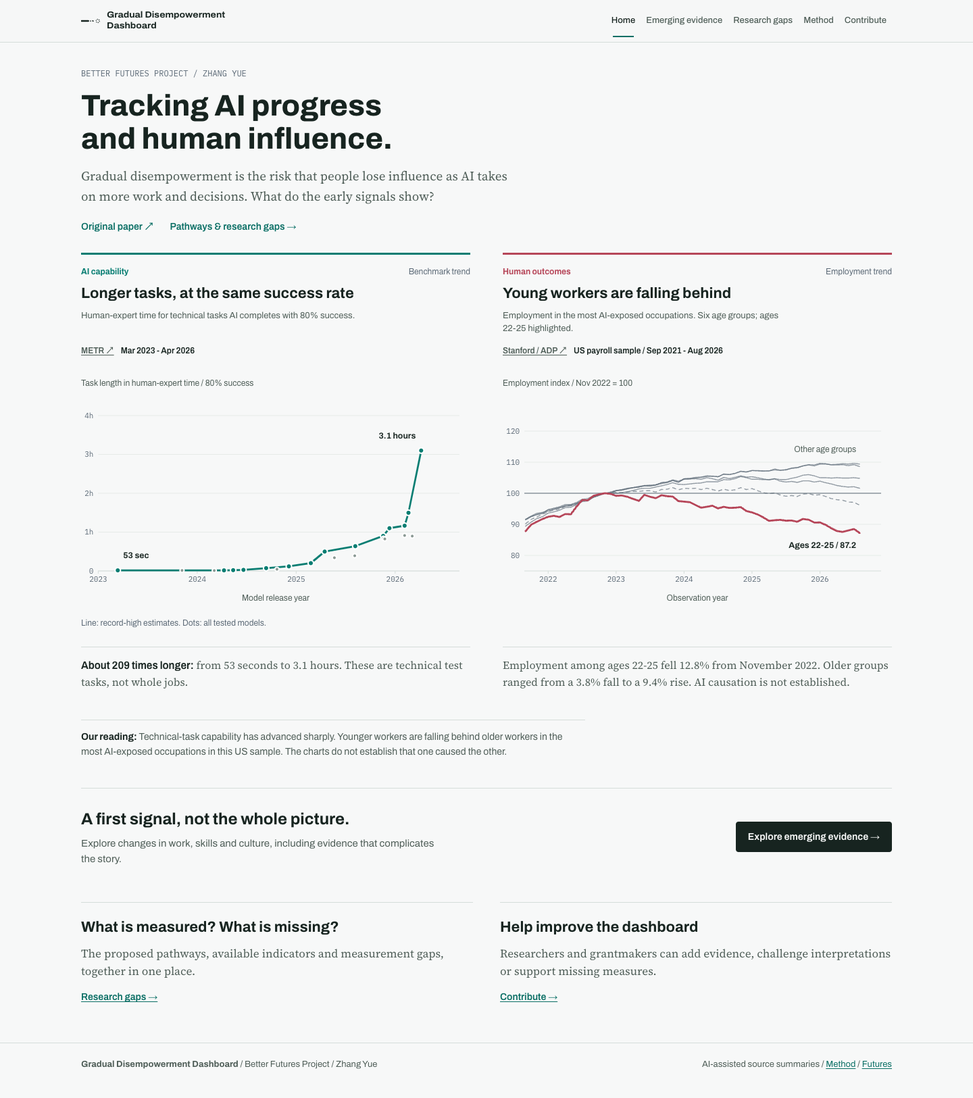
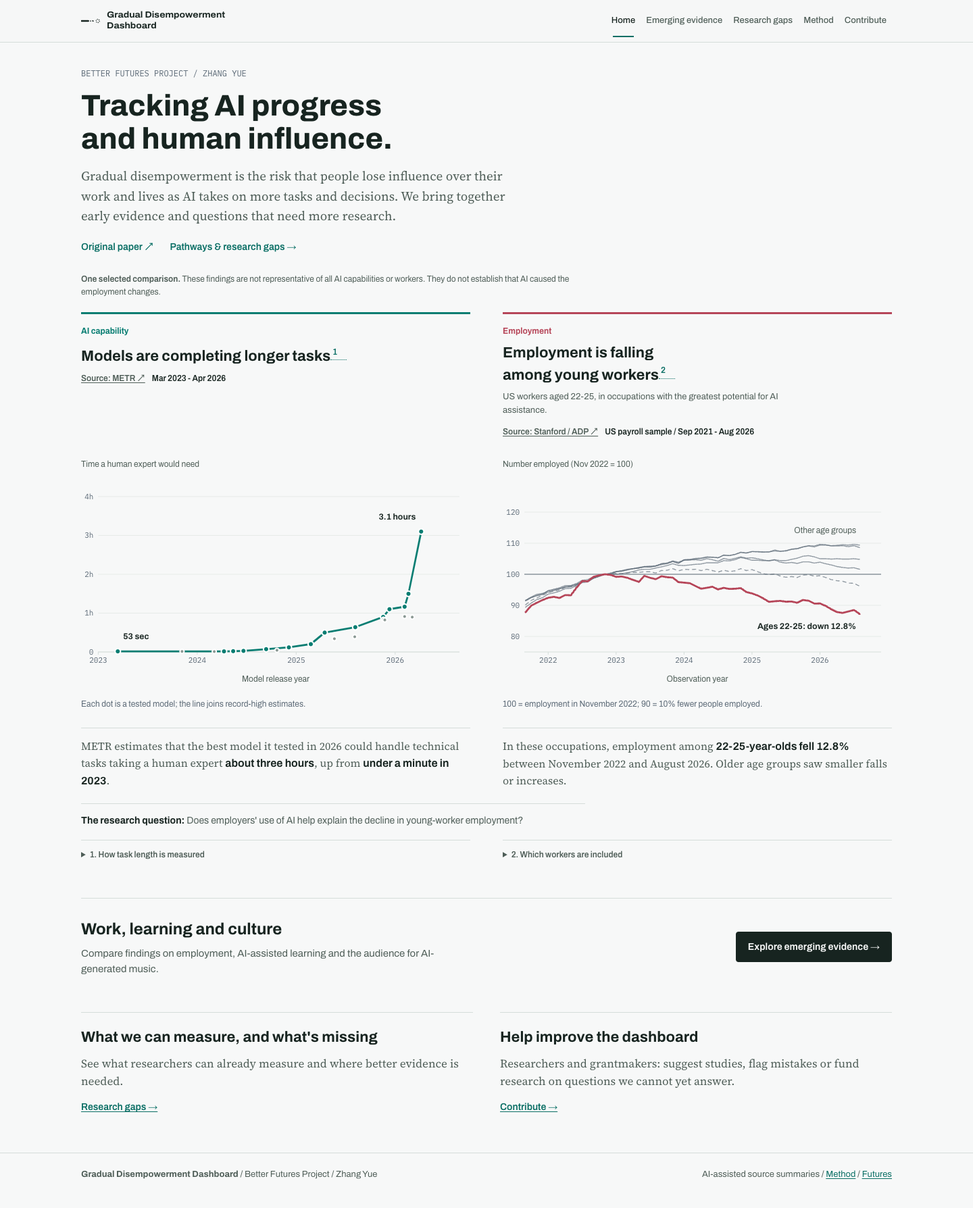
Clarify homepage findings and move technical context into notes

diff --git a/docs/index.html b/docs/index.html
@@ -1361,6 +1361,10 @@ h1,h2,h3,p,a,summary,dd{overflow-wrap:break-word}
 .intro10 .intro-links10{font:14px/1.5 var(--f-display);display:flex;flex-wrap:wrap;gap:10px 24px;margin-top:20px}
 .intro-links10 a,.pair-links10 a,.gap-links10 a{font-weight:600;text-decoration:none}.intro-links10 a:hover,.pair-links10 a:hover,.gap-links10 a:hover{text-decoration:underline}
 .home-intro10{max-width:none;padding-bottom:28px}.home-intro10 h1{font-size:44px;max-width:28ch}.home-intro10 p{max-width:68ch}
+.snapshot-note12{font-size:12px;line-height:1.6;color:var(--ink-2);max-width:110ch;margin-bottom:20px}.snapshot-note12 b{font-weight:650}
+.home10 .compare-figure10 h3 sup{vertical-align:super;line-height:0;white-space:nowrap}.note-ref12{font:600 12px/1 var(--f-display);color:var(--accent);background:none;border:0;border-bottom:1px dotted currentColor;border-radius:0;min-width:24px;height:24px;padding:3px;cursor:pointer;vertical-align:middle}.note-ref12:hover{background:var(--accent-soft)}.note-ref12:focus-visible{outline:2px solid var(--accent);outline-offset:2px}
+.home-notes12{display:grid;grid-template-columns:1fr 1fr;gap:14px 48px;margin-top:17px;align-items:start}.home-notes12 details{font-size:12px;line-height:1.6;color:var(--ink-2);border-top:1px solid var(--rule);scroll-margin-top:100px}.home-notes12 summary{cursor:pointer;padding:12px 0;font-weight:600}.home-notes12 summary:focus-visible{outline:2px solid var(--accent);outline-offset:2px}.home-notes12 p{margin:0 0 12px}.home10 .figure-take10{min-height:0}.home10 .figure-take10 strong{font-size:16px}
+@media(max-width:700px){.home-notes12{grid-template-columns:1fr;gap:0}.home-notes12 details{scroll-margin-top:145px}.snapshot-note12{margin-bottom:16px}}
 .reading-note10{font:13px/1.5 var(--f-display);color:var(--ink-2);margin-bottom:16px;max-width:85ch}
 .jump10{display:flex;gap:8px 24px;flex-wrap:wrap;padding-block:14px;border-block:1px solid var(--rule);margin-bottom:38px;font-size:14px}.jump10 a{text-decoration:none}.jump10 a:hover{text-decoration:underline}
 .comparison10{padding-block:0 42px;scroll-margin-top:100px}.comparison10+.comparison10{padding-top:30px;border-top:1px solid var(--rule)}
@@ -6466,12 +6470,12 @@ function capabilityRecords7(rows=CAPABILITY7.metr.rows){
     return records;
   },[]);
 }
-function drawCapabilityTrend7(el,h=330){
+function drawCapabilityTrend7(el,h=330,labels={}){
   const rows=CAPABILITY7.metr.rows,records=capabilityRecords7(rows),ids=new Set(records.map(r=>r.id)),last=records.at(-1);
   Charts.line(el,{h,legend:false,table:false,axisPlacement:'edges',
     aria:'METR TH1.1 technical-task length at 80 percent success, March 2023 to April 2026. A line joins record-high point estimates among evaluated models; other tested models remain visible. From 53 seconds to 3.1 hours of human-expert work. Not a fitted trend or a forecast.',
     x:{min:2023,max:2026.65,ticks:[2023,2024,2025,2026],fmt:String,tip:calendarDate7,label:'Model release year'},
-    y:{min:0,max:240,ticks:[0,60,120,180,240],fmt:n=>n===0?'0':`${n/60}h`,tip:n=>n<1?Math.round(n*60)+' sec':fmtMin(n),label:'Task length in human-expert time / 80% success'},
+    y:{min:0,max:240,ticks:[0,60,120,180,240],fmt:n=>n===0?'0':`${n/60}h`,tip:n=>n<1?Math.round(n*60)+' sec':fmtMin(n),label:labels.yLabel||'Task length in human-expert time / 80% success'},
     series:[{name:'Record-high estimates',color:C.s1,w:2.8,markers:'none',end:false,tip:false,rec:false,pts:records.map(r=>[decimalYear7(r.date),r.estimate])},
       ...rows.map(r=>({name:r.name,color:ids.has(r.id)?C.s1:C.s2,dots:true,r:ids.has(r.id)?4:3,markers:'all',end:false,pts:[[decimalYear7(r.date),r.estimate,`95% interval: ${r.low.toFixed(2)} to ${r.high.toFixed(2)} minutes`]]}))],
     ann:[{x:decimalYear7(records[0].date),y:records[0].estimate,text:'53 sec',dx:8,dy:-18,strong:true},{x:decimalYear7(last.date),y:last.estimate,text:'3.1 hours',anchor:'end',dx:-8,dy:-18,strong:true}]});
@@ -7376,7 +7380,7 @@ const pairDefs10=[
   {id:'culture',n:'03',title:'More AI content does not mean more attention.',tag:'A counterpoint',left:'uploads',right:'streams',reading:'AI music grew rapidly as a share of new uploads on Deezer, but remained a small share of recorded streams. More supply alone does not show that human creators are losing audiences or income.',need:'Measure genuine audience attention and creator income, alongside AI content supply, across platforms.'}
 ];
 
-function comparisonCard10(key,uid){
+function comparisonCard10(key,uid,home=false){
   const W=COMPARISON_DATA.work;
   const cards={
     capability:{lane:'AI capability',type:'Benchmark trend',title:'Longer tasks, at the same success rate',measure:'Human-expert time for technical tasks AI completes with 80% success.',publisher:'METR',url:CAPABILITY7.metr.url,period:'Mar 2023 - Apr 2026',take:'<strong>About 209 times longer:</strong> from 53 seconds to 3.1 hours. These are technical test tasks, not whole jobs.'},
@@ -7387,13 +7391,30 @@ function comparisonCard10(key,uid){
     streams:{lane:'Audience attention proxy',type:'Reported range / not a trend',title:'But it is a small share of recorded streams',measure:'Fully AI-generated tracks as a share of all recorded streams on Deezer.',publisher:'Deezer',url:COMPARISON_DATA.music.sourceURL,period:'Apr 2026 report',take:'<strong>Streams are not the same as human listening.</strong> The figure includes fraudulent activity; Deezer also excludes AI music from recommendations.'}
   };
   const c=cards[key],human=['work','skills','streams'].includes(key);
-  const chartNote=key==='capability'?'Line: record-high estimates. Dots: all tested models.':key==='uploads'?'Line connects rounded reports; not continuous observations.':'';
-  return `<figure class="compare-figure10${human?' human10':''}" aria-labelledby="${uid}-title"><figcaption><div class="figure-meta10"><span class="lane10">${esc(c.lane)}</span><span>${esc(c.type)}</span></div><h3 id="${uid}-title">${esc(c.title)}</h3><p class="measure10">${esc(c.measure)}</p><div class="source10">${ext7(c.url,c.publisher)}<span>${esc(c.period)}</span></div></figcaption><div class="chart" id="${uid}" data-comparison-chart="${key}"></div><p class="chart-note10">${chartNote}</p><p class="figure-take10">${key==='work'?esc(c.take):c.take}</p></figure>`;
+  if(home&&key==='capability')Object.assign(c,{
+    title:'Models are completing longer tasks',measure:'',
+    take:'METR estimates that the best model it tested in 2026 could handle technical tasks taking a human expert <strong>about three hours</strong>, up from <strong>under a minute in 2023</strong>.',
+    note:1,noteTitle:'How task length is measured',hint:'Task length is measured by the time a human expert would need. METR estimates it at an 80% success rate.'
+  });
+  if(home&&key==='work')Object.assign(c,{
+    lane:'Employment',title:'Employment is falling among young workers',
+    measure:'US workers aged 22-25, in occupations with the greatest potential for AI assistance.',
+    take:'In these occupations, employment among <strong>22-25-year-olds fell 12.8%</strong> between November 2022 and August 2026. Older age groups saw smaller falls or increases.',
+    note:2,noteTitle:'Which workers are included',hint:'Selected US employers using ADP payroll. Occupations are grouped by how much AI could assist with their tasks.'
+  });
+  const chartNote=home?(key==='capability'?'Each dot is a tested model; the line joins record-high estimates.':'100 = employment in November 2022; 90 = 10% fewer people employed.'):key==='capability'?'Line: record-high estimates. Dots: all tested models.':key==='uploads'?'Line connects rounded reports; not continuous observations.':'';
+  const ref=home?`<sup><button type="button" class="note-ref12" data-home-note="${key}" aria-controls="home-note-${key}" aria-expanded="false" aria-label="Note ${c.note}: ${esc(c.noteTitle)}" title="${esc(c.hint)}">${c.note}</button></sup>`:'';
+  return `<figure class="compare-figure10${human?' human10':''}" aria-labelledby="${uid}-title"><figcaption><div class="figure-meta10"><span class="lane10">${esc(c.lane)}</span>${home?'':`<span>${esc(c.type)}</span>`}</div><h3 id="${uid}-title">${esc(c.title)}${ref}</h3>${c.measure?`<p class="measure10">${esc(c.measure)}</p>`:''}<div class="source10">${ext7(c.url,home?'Source: '+c.publisher:c.publisher)}<span>${esc(c.period)}</span></div></figcaption><div class="chart" id="${uid}" data-comparison-chart="${key}"></div><p class="chart-note10">${chartNote}</p><p class="figure-take10">${key==='work'&&!home?esc(c.take):c.take}</p></figure>`;
 }
 
 function pairMarkup10(pair,home=false){
   const left=pair.id==='culture'?'culture':pair.left,right=pair.id==='culture'?'culture':pair.right;
-  return `<section class="comparison10" id="compare-${pair.id}" ${home?'aria-label="AI capability and employment comparison"':`aria-labelledby="pair-${pair.id}"`}>${home?'':`<header class="pair-head10"><span class="pair-no10">${pair.n}</span><h2 id="pair-${pair.id}">${esc(pair.title)}</h2><span class="pair-tag10">${esc(pair.tag)}</span></header>`}<div class="pair-grid10">${comparisonCard10(pair.left,`${pair.id}-left10`)}${comparisonCard10(pair.right,`${pair.id}-right10`)}</div><p class="pair-reading10"><b>Our reading:</b> ${esc(pair.reading)}</p>${home?'':`<div class="pair-footer10"><details class="pair-notes10"><summary>Sources, caveats &amp; more evidence</summary>${pairNotes10(pair)}</details><div class="pair-links10"><a href="#${left}">${esc(nameOf(left))}: research gaps &#8594;</a>${right===left?'':`<a href="#${right}">${esc(nameOf(right))}: research gaps &#8594;</a>`}</div></div>`}</section>`;
+  return `<section class="comparison10" id="compare-${pair.id}" ${home?'aria-label="AI capability and employment comparison"':`aria-labelledby="pair-${pair.id}"`}>${home?'<p class="snapshot-note12"><b>One selected comparison.</b> These findings are not representative of all AI capabilities or workers. They do not establish that AI caused the employment changes.</p>':`<header class="pair-head10"><span class="pair-no10">${pair.n}</span><h2 id="pair-${pair.id}">${esc(pair.title)}</h2><span class="pair-tag10">${esc(pair.tag)}</span></header>`}<div class="pair-grid10">${comparisonCard10(pair.left,`${pair.id}-left10`,home)}${comparisonCard10(pair.right,`${pair.id}-right10`,home)}</div>${home?`<p class="pair-reading10"><b>The research question:</b> Does employers' use of AI help explain the decline in young-worker employment?</p>${homeNotes12()}`:`<p class="pair-reading10"><b>Our reading:</b> ${esc(pair.reading)}</p><div class="pair-footer10"><details class="pair-notes10"><summary>Sources, caveats &amp; more evidence</summary>${pairNotes10(pair)}</details><div class="pair-links10"><a href="#${left}">${esc(nameOf(left))}: research gaps &#8594;</a>${right===left?'':`<a href="#${right}">${esc(nameOf(right))}: research gaps &#8594;</a>`}</div></div>`}</section>`;
+}
+
+function homeNotes12(){
+  return `<div class="home-notes12"><details id="home-note-capability"><summary>1. How task length is measured</summary><p>METR estimates the task length at which an AI model succeeds 80% of the time. Length is measured by the time a human expert would need. The tests cover software engineering, machine learning and cybersecurity.</p><p>The comparison runs from GPT-4 in March 2023 (53 seconds) to Claude Mythos Preview (early) in April 2026 (3.1 hours): about 209 times the task length. The latest estimate has a wide 95% uncertainty interval of 1.6-6.6 hours.</p><p>The line joins record-high estimates among 23 tested models. This archived benchmark covers well-defined tasks; how far the results carry over to complete jobs remains uncertain.</p><p>${ext7(CAPABILITY7.metr.url,'METR methods')} / <a href="#capability/source">Model results and data</a></p></details>
+    <details id="home-note-work"><summary>2. Which workers are included</summary><p>Stanford and ADP track employment at a selected group of US employers using ADP payroll. This chart includes occupations in the highest fifth of estimated AI exposure: those whose tasks AI could potentially assist with most.</p><p>The six lines compare age groups, each with its own November 2022 baseline of 100. From that baseline to August 2026, employment fell 12.8% among ages 22-25. Changes among older groups ranged from a 3.8% fall to a 9.4% rise.</p><p>The sample has limited coverage of the US labour market. Actual AI use by these employers is unknown, and other economic changes could help explain the pattern.</p><p>${ext7(COMPARISON_DATA.work.sourceURL,'Stanford / ADP study')} / <a href="#work/source">Employment data and further evidence</a></p></details></div>`;
 }
 
 function pairNotes10(p){
@@ -7403,8 +7424,9 @@ function pairNotes10(p){
 }
 
 function drawComparison10(el,key){
-  if(key==='capability')drawCapabilityTrend7(el,270);
-  else if(key==='work')drawWork10(el);
+  const home=!!el.closest('.home10');
+  if(key==='capability')drawCapabilityTrend7(el,270,home?{yLabel:'Time a human expert would need'}:{});
+  else if(key==='work')drawWork10(el,home?{yLabel:'Number employed (Nov 2022 = 100)',endLabel:'Ages 22-25: down 12.8%'}:{});
   else if(key==='adoption')Charts.line(el,{h:270,legend:false,table:false,axisPlacement:'edges',aria:'Gallup: US employees reporting frequent AI use, 11 percent in May 2023 to 32 percent in August 2026. Eight survey waves.',
     x:{min:2023,max:2026.9,ticks:[2023,2024,2025,2026],fmt:String,tip:fmtDate,label:'Survey year'},y:{min:0,max:40,ticks:[0,10,20,30,40],fmt:n=>n+'%',tip:n=>n+'%',label:'Share of US employees / frequent AI use'},
     series:[{name:'Frequent AI use',color:'var(--ai10)',w:2.8,end:false,markers:'all',pts:ADOPTION7.rows.map(r=>[monthlyYear10(r.date),r.value])}],ann:[{x:monthlyYear10(ADOPTION7.rows[0].date),y:11,text:'11%',dx:6,dy:-16,strong:true},{x:monthlyYear10(ADOPTION7.rows.at(-1).date),y:32,text:'32%',dx:-6,dy:-18,anchor:'end',strong:true}]});
@@ -7413,14 +7435,14 @@ function drawComparison10(el,key){
   else drawStreamsStat10(el);
 }
 
-function drawWork10(el){
+function drawWork10(el,labels={}){
   const W=COMPARISON_DATA.work;
   const rows=W.data;
   Charts.line(el,{h:270,table:false,legend:false,axisPlacement:'edges',aria:W.aria||W.measure,
     x:{min:2021.65,max:2026.9,ticks:[2022,2023,2024,2025,2026],ticksNarrow:[2022,2024,2026],fmt:String,tip:fmtDate,label:'Observation year'},
-    y:{min:75,max:125,ticks:[80,90,100,110,120],fmt:String,tip:n=>n.toFixed(1),label:'Employment index / Nov 2022 = 100'},zero:100,
+    y:{min:75,max:125,ticks:[80,90,100,110,120],fmt:String,tip:n=>n.toFixed(1),label:labels.yLabel||'Employment index / Nov 2022 = 100'},zero:100,
     series:[...W.series.slice(1),W.series[0]].map(s=>({name:s.label,color:s.columnIndex===1?'var(--human10)':'var(--ink-3)',w:s.columnIndex===1?2.8:1.4,op:s.columnIndex===1?1:.65,dash:s.columnIndex===2,end:false,markers:'none',pts:rows.map(r=>[monthlyYear10(r[0]),r[s.columnIndex]])})),
-    ann:[{x:monthlyYear10(rows.at(-1)[0]),y:rows.at(-1)[1],text:'Ages 22-25 / 87.2',anchor:'end',dx:-5,dy:22,strong:true},{x:monthlyYear10(rows.at(-1)[0]),y:rows.at(-1)[5],text:'Other age groups',anchor:'end',dx:-5,dy:-18}]});
+    ann:[{x:monthlyYear10(rows.at(-1)[0]),y:rows.at(-1)[1],text:labels.endLabel||'Ages 22-25 / 87.2',anchor:'end',dx:-5,dy:22,strong:true},{x:monthlyYear10(rows.at(-1)[0]),y:rows.at(-1)[5],text:'Other age groups',anchor:'end',dx:-5,dy:-18}]});
 }
 
 function drawSkillsStat10(el){
@@ -7458,8 +7480,17 @@ function viewEmerging10(v,anchor){
 }
 
 function viewHome10(v){
-  v.innerHTML=`<div class="wrap page10 home10"><header class="intro10 home-intro10"><div class="eyebrow10">Better Futures Project / Zhang Yue</div><h1>Tracking AI progress and human influence.</h1><p>Gradual disempowerment is the risk that people lose influence as AI takes on more work and decisions. What do the early signals show?</p><div class="intro-links10">${ext7('https://gradual-disempowerment.ai/','Original paper')}<a href="#gaps">Pathways &amp; research gaps &#8594;</a></div></header>${pairMarkup10(pairDefs10[0],true)}<section class="home-next10"><div><h2>A first signal, not the whole picture.</h2><p>Explore changes in work, skills and culture, including evidence that complicates the story.</p></div><a class="main-link10" href="#emerging">Explore emerging evidence &#8594;</a></section><section class="home-doors10"><article><h2>What is measured? What is missing?</h2><p>The proposed pathways, available indicators and measurement gaps, together in one place.</p><a href="#gaps">Research gaps &#8594;</a></article><article><h2>Help improve the dashboard</h2><p>Researchers and grantmakers can add evidence, challenge interpretations or support missing measures.</p><a href="#contribute">Contribute &#8594;</a></article></section></div>`;
+  v.innerHTML=`<div class="wrap page10 home10"><header class="intro10 home-intro10"><div class="eyebrow10">Better Futures Project / Zhang Yue</div><h1>Tracking AI progress and human influence.</h1><p>Gradual disempowerment is the risk that people lose influence over their work and lives as AI takes on more tasks and decisions. We bring together early evidence and questions that need more research.</p><div class="intro-links10">${ext7('https://gradual-disempowerment.ai/','Original paper')}<a href="#gaps">Pathways &amp; research gaps &#8594;</a></div></header>${pairMarkup10(pairDefs10[0],true)}<section class="home-next10"><div><h2>Work, learning and culture</h2><p>Compare findings on employment, AI-assisted learning and the audience for AI-generated music.</p></div><a class="main-link10" href="#emerging">Explore emerging evidence &#8594;</a></section><section class="home-doors10"><article><h2>What we can measure, and what's missing</h2><p>See what researchers can already measure and where better evidence is needed.</p><a href="#gaps">Research gaps &#8594;</a></article><article><h2>Help improve the dashboard</h2><p>Researchers and grantmakers: suggest studies, flag mistakes or fund research on questions we cannot yet answer.</p><a href="#contribute">Contribute &#8594;</a></article></section></div>`;
   mountComparisons10(v);
+  $$('[data-home-note]',v).forEach(button=>{
+    const note=$('#home-note-'+button.dataset.homeNote,v);
+    button.addEventListener('click',()=>{
+      note.open=true;
+      $('summary',note).focus({preventScroll:true});
+      note.scrollIntoView({block:'nearest',behavior:matchMedia('(prefers-reduced-motion: reduce)').matches?'instant':'smooth'});
+    });
+    note.addEventListener('toggle',()=>button.setAttribute('aria-expanded',String(note.open)));
+  });
 }
 
 function viewResearch10(v){

diff --git a/src/comparison.js b/src/comparison.js
@@ -26,7 +26,7 @@ const pairDefs10=[
   {id:'culture',n:'03',title:'More AI content does not mean more attention.',tag:'A counterpoint',left:'uploads',right:'streams',reading:'AI music grew rapidly as a share of new uploads on Deezer, but remained a small share of recorded streams. More supply alone does not show that human creators are losing audiences or income.',need:'Measure genuine audience attention and creator income, alongside AI content supply, across platforms.'}
 ];
 
-function comparisonCard10(key,uid){
+function comparisonCard10(key,uid,home=false){
   const W=COMPARISON_DATA.work;
   const cards={
     capability:{lane:'AI capability',type:'Benchmark trend',title:'Longer tasks, at the same success rate',measure:'Human-expert time for technical tasks AI completes with 80% success.',publisher:'METR',url:CAPABILITY7.metr.url,period:'Mar 2023 - Apr 2026',take:'<strong>About 209 times longer:</strong> from 53 seconds to 3.1 hours. These are technical test tasks, not whole jobs.'},
@@ -37,13 +37,30 @@ function comparisonCard10(key,uid){
     streams:{lane:'Audience attention proxy',type:'Reported range / not a trend',title:'But it is a small share of recorded streams',measure:'Fully AI-generated tracks as a share of all recorded streams on Deezer.',publisher:'Deezer',url:COMPARISON_DATA.music.sourceURL,period:'Apr 2026 report',take:'<strong>Streams are not the same as human listening.</strong> The figure includes fraudulent activity; Deezer also excludes AI music from recommendations.'}
   };
   const c=cards[key],human=['work','skills','streams'].includes(key);
-  const chartNote=key==='capability'?'Line: record-high estimates. Dots: all tested models.':key==='uploads'?'Line connects rounded reports; not continuous observations.':'';
-  return `<figure class="compare-figure10${human?' human10':''}" aria-labelledby="${uid}-title"><figcaption><div class="figure-meta10"><span class="lane10">${esc(c.lane)}</span><span>${esc(c.type)}</span></div><h3 id="${uid}-title">${esc(c.title)}</h3><p class="measure10">${esc(c.measure)}</p><div class="source10">${ext7(c.url,c.publisher)}<span>${esc(c.period)}</span></div></figcaption><div class="chart" id="${uid}" data-comparison-chart="${key}"></div><p class="chart-note10">${chartNote}</p><p class="figure-take10">${key==='work'?esc(c.take):c.take}</p></figure>`;
+  if(home&&key==='capability')Object.assign(c,{
+    title:'Models are completing longer tasks',measure:'',
+    take:'METR estimates that the best model it tested in 2026 could handle technical tasks taking a human expert <strong>about three hours</strong>, up from <strong>under a minute in 2023</strong>.',
+    note:1,noteTitle:'How task length is measured',hint:'Task length is measured by the time a human expert would need. METR estimates it at an 80% success rate.'
+  });
+  if(home&&key==='work')Object.assign(c,{
+    lane:'Employment',title:'Employment is falling among young workers',
+    measure:'US workers aged 22-25, in occupations with the greatest potential for AI assistance.',
+    take:'In these occupations, employment among <strong>22-25-year-olds fell 12.8%</strong> between November 2022 and August 2026. Older age groups saw smaller falls or increases.',
+    note:2,noteTitle:'Which workers are included',hint:'Selected US employers using ADP payroll. Occupations are grouped by how much AI could assist with their tasks.'
+  });
+  const chartNote=home?(key==='capability'?'Each dot is a tested model; the line joins record-high estimates.':'100 = employment in November 2022; 90 = 10% fewer people employed.'):key==='capability'?'Line: record-high estimates. Dots: all tested models.':key==='uploads'?'Line connects rounded reports; not continuous observations.':'';
+  const ref=home?`<sup><button type="button" class="note-ref12" data-home-note="${key}" aria-controls="home-note-${key}" aria-expanded="false" aria-label="Note ${c.note}: ${esc(c.noteTitle)}" title="${esc(c.hint)}">${c.note}</button></sup>`:'';
+  return `<figure class="compare-figure10${human?' human10':''}" aria-labelledby="${uid}-title"><figcaption><div class="figure-meta10"><span class="lane10">${esc(c.lane)}</span>${home?'':`<span>${esc(c.type)}</span>`}</div><h3 id="${uid}-title">${esc(c.title)}${ref}</h3>${c.measure?`<p class="measure10">${esc(c.measure)}</p>`:''}<div class="source10">${ext7(c.url,home?'Source: '+c.publisher:c.publisher)}<span>${esc(c.period)}</span></div></figcaption><div class="chart" id="${uid}" data-comparison-chart="${key}"></div><p class="chart-note10">${chartNote}</p><p class="figure-take10">${key==='work'&&!home?esc(c.take):c.take}</p></figure>`;
 }
 
 function pairMarkup10(pair,home=false){
   const left=pair.id==='culture'?'culture':pair.left,right=pair.id==='culture'?'culture':pair.right;
-  return `<section class="comparison10" id="compare-${pair.id}" ${home?'aria-label="AI capability and employment comparison"':`aria-labelledby="pair-${pair.id}"`}>${home?'':`<header class="pair-head10"><span class="pair-no10">${pair.n}</span><h2 id="pair-${pair.id}">${esc(pair.title)}</h2><span class="pair-tag10">${esc(pair.tag)}</span></header>`}<div class="pair-grid10">${comparisonCard10(pair.left,`${pair.id}-left10`)}${comparisonCard10(pair.right,`${pair.id}-right10`)}</div><p class="pair-reading10"><b>Our reading:</b> ${esc(pair.reading)}</p>${home?'':`<div class="pair-footer10"><details class="pair-notes10"><summary>Sources, caveats &amp; more evidence</summary>${pairNotes10(pair)}</details><div class="pair-links10"><a href="#${left}">${esc(nameOf(left))}: research gaps &#8594;</a>${right===left?'':`<a href="#${right}">${esc(nameOf(right))}: research gaps &#8594;</a>`}</div></div>`}</section>`;
+  return `<section class="comparison10" id="compare-${pair.id}" ${home?'aria-label="AI capability and employment comparison"':`aria-labelledby="pair-${pair.id}"`}>${home?'<p class="snapshot-note12"><b>One selected comparison.</b> These findings are not representative of all AI capabilities or workers. They do not establish that AI caused the employment changes.</p>':`<header class="pair-head10"><span class="pair-no10">${pair.n}</span><h2 id="pair-${pair.id}">${esc(pair.title)}</h2><span class="pair-tag10">${esc(pair.tag)}</span></header>`}<div class="pair-grid10">${comparisonCard10(pair.left,`${pair.id}-left10`,home)}${comparisonCard10(pair.right,`${pair.id}-right10`,home)}</div>${home?`<p class="pair-reading10"><b>The research question:</b> Does employers' use of AI help explain the decline in young-worker employment?</p>${homeNotes12()}`:`<p class="pair-reading10"><b>Our reading:</b> ${esc(pair.reading)}</p><div class="pair-footer10"><details class="pair-notes10"><summary>Sources, caveats &amp; more evidence</summary>${pairNotes10(pair)}</details><div class="pair-links10"><a href="#${left}">${esc(nameOf(left))}: research gaps &#8594;</a>${right===left?'':`<a href="#${right}">${esc(nameOf(right))}: research gaps &#8594;</a>`}</div></div>`}</section>`;
+}
+
+function homeNotes12(){
+  return `<div class="home-notes12"><details id="home-note-capability"><summary>1. How task length is measured</summary><p>METR estimates the task length at which an AI model succeeds 80% of the time. Length is measured by the time a human expert would need. The tests cover software engineering, machine learning and cybersecurity.</p><p>The comparison runs from GPT-4 in March 2023 (53 seconds) to Claude Mythos Preview (early) in April 2026 (3.1 hours): about 209 times the task length. The latest estimate has a wide 95% uncertainty interval of 1.6-6.6 hours.</p><p>The line joins record-high estimates among 23 tested models. This archived benchmark covers well-defined tasks; how far the results carry over to complete jobs remains uncertain.</p><p>${ext7(CAPABILITY7.metr.url,'METR methods')} / <a href="#capability/source">Model results and data</a></p></details>
+    <details id="home-note-work"><summary>2. Which workers are included</summary><p>Stanford and ADP track employment at a selected group of US employers using ADP payroll. This chart includes occupations in the highest fifth of estimated AI exposure: those whose tasks AI could potentially assist with most.</p><p>The six lines compare age groups, each with its own November 2022 baseline of 100. From that baseline to August 2026, employment fell 12.8% among ages 22-25. Changes among older groups ranged from a 3.8% fall to a 9.4% rise.</p><p>The sample has limited coverage of the US labour market. Actual AI use by these employers is unknown, and other economic changes could help explain the pattern.</p><p>${ext7(COMPARISON_DATA.work.sourceURL,'Stanford / ADP study')} / <a href="#work/source">Employment data and further evidence</a></p></details></div>`;
 }
 
 function pairNotes10(p){
@@ -53,8 +70,9 @@ function pairNotes10(p){
 }
 
 function drawComparison10(el,key){
-  if(key==='capability')drawCapabilityTrend7(el,270);
-  else if(key==='work')drawWork10(el);
+  const home=!!el.closest('.home10');
+  if(key==='capability')drawCapabilityTrend7(el,270,home?{yLabel:'Time a human expert would need'}:{});
+  else if(key==='work')drawWork10(el,home?{yLabel:'Number employed (Nov 2022 = 100)',endLabel:'Ages 22-25: down 12.8%'}:{});
   else if(key==='adoption')Charts.line(el,{h:270,legend:false,table:false,axisPlacement:'edges',aria:'Gallup: US employees reporting frequent AI use, 11 percent in May 2023 to 32 percent in August 2026. Eight survey waves.',
     x:{min:2023,max:2026.9,ticks:[2023,2024,2025,2026],fmt:String,tip:fmtDate,label:'Survey year'},y:{min:0,max:40,ticks:[0,10,20,30,40],fmt:n=>n+'%',tip:n=>n+'%',label:'Share of US employees / frequent AI use'},
     series:[{name:'Frequent AI use',color:'var(--ai10)',w:2.8,end:false,markers:'all',pts:ADOPTION7.rows.map(r=>[monthlyYear10(r.date),r.value])}],ann:[{x:monthlyYear10(ADOPTION7.rows[0].date),y:11,text:'11%',dx:6,dy:-16,strong:true},{x:monthlyYear10(ADOPTION7.rows.at(-1).date),y:32,text:'32%',dx:-6,dy:-18,anchor:'end',strong:true}]});
@@ -63,14 +81,14 @@ function drawComparison10(el,key){
   else drawStreamsStat10(el);
 }
 
-function drawWork10(el){
+function drawWork10(el,labels={}){
   const W=COMPARISON_DATA.work;
   const rows=W.data;
   Charts.line(el,{h:270,table:false,legend:false,axisPlacement:'edges',aria:W.aria||W.measure,
     x:{min:2021.65,max:2026.9,ticks:[2022,2023,2024,2025,2026],ticksNarrow:[2022,2024,2026],fmt:String,tip:fmtDate,label:'Observation year'},
-    y:{min:75,max:125,ticks:[80,90,100,110,120],fmt:String,tip:n=>n.toFixed(1),label:'Employment index / Nov 2022 = 100'},zero:100,
+    y:{min:75,max:125,ticks:[80,90,100,110,120],fmt:String,tip:n=>n.toFixed(1),label:labels.yLabel||'Employment index / Nov 2022 = 100'},zero:100,
     series:[...W.series.slice(1),W.series[0]].map(s=>({name:s.label,color:s.columnIndex===1?'var(--human10)':'var(--ink-3)',w:s.columnIndex===1?2.8:1.4,op:s.columnIndex===1?1:.65,dash:s.columnIndex===2,end:false,markers:'none',pts:rows.map(r=>[monthlyYear10(r[0]),r[s.columnIndex]])})),
-    ann:[{x:monthlyYear10(rows.at(-1)[0]),y:rows.at(-1)[1],text:'Ages 22-25 / 87.2',anchor:'end',dx:-5,dy:22,strong:true},{x:monthlyYear10(rows.at(-1)[0]),y:rows.at(-1)[5],text:'Other age groups',anchor:'end',dx:-5,dy:-18}]});
+    ann:[{x:monthlyYear10(rows.at(-1)[0]),y:rows.at(-1)[1],text:labels.endLabel||'Ages 22-25 / 87.2',anchor:'end',dx:-5,dy:22,strong:true},{x:monthlyYear10(rows.at(-1)[0]),y:rows.at(-1)[5],text:'Other age groups',anchor:'end',dx:-5,dy:-18}]});
 }
 
 function drawSkillsStat10(el){
@@ -108,8 +126,17 @@ function viewEmerging10(v,anchor){
 }
 
 function viewHome10(v){
-  v.innerHTML=`<div class="wrap page10 home10"><header class="intro10 home-intro10"><div class="eyebrow10">Better Futures Project / Zhang Yue</div><h1>Tracking AI progress and human influence.</h1><p>Gradual disempowerment is the risk that people lose influence as AI takes on more work and decisions. What do the early signals show?</p><div class="intro-links10">${ext7('https://gradual-disempowerment.ai/','Original paper')}<a href="#gaps">Pathways &amp; research gaps &#8594;</a></div></header>${pairMarkup10(pairDefs10[0],true)}<section class="home-next10"><div><h2>A first signal, not the whole picture.</h2><p>Explore changes in work, skills and culture, including evidence that complicates the story.</p></div><a class="main-link10" href="#emerging">Explore emerging evidence &#8594;</a></section><section class="home-doors10"><article><h2>What is measured? What is missing?</h2><p>The proposed pathways, available indicators and measurement gaps, together in one place.</p><a href="#gaps">Research gaps &#8594;</a></article><article><h2>Help improve the dashboard</h2><p>Researchers and grantmakers can add evidence, challenge interpretations or support missing measures.</p><a href="#contribute">Contribute &#8594;</a></article></section></div>`;
+  v.innerHTML=`<div class="wrap page10 home10"><header class="intro10 home-intro10"><div class="eyebrow10">Better Futures Project / Zhang Yue</div><h1>Tracking AI progress and human influence.</h1><p>Gradual disempowerment is the risk that people lose influence over their work and lives as AI takes on more tasks and decisions. We bring together early evidence and questions that need more research.</p><div class="intro-links10">${ext7('https://gradual-disempowerment.ai/','Original paper')}<a href="#gaps">Pathways &amp; research gaps &#8594;</a></div></header>${pairMarkup10(pairDefs10[0],true)}<section class="home-next10"><div><h2>Work, learning and culture</h2><p>Compare findings on employment, AI-assisted learning and the audience for AI-generated music.</p></div><a class="main-link10" href="#emerging">Explore emerging evidence &#8594;</a></section><section class="home-doors10"><article><h2>What we can measure, and what's missing</h2><p>See what researchers can already measure and where better evidence is needed.</p><a href="#gaps">Research gaps &#8594;</a></article><article><h2>Help improve the dashboard</h2><p>Researchers and grantmakers: suggest studies, flag mistakes or fund research on questions we cannot yet answer.</p><a href="#contribute">Contribute &#8594;</a></article></section></div>`;
   mountComparisons10(v);
+  $$('[data-home-note]',v).forEach(button=>{
+    const note=$('#home-note-'+button.dataset.homeNote,v);
+    button.addEventListener('click',()=>{
+      note.open=true;
+      $('summary',note).focus({preventScroll:true});
+      note.scrollIntoView({block:'nearest',behavior:matchMedia('(prefers-reduced-motion: reduce)').matches?'instant':'smooth'});
+    });
+    note.addEventListener('toggle',()=>button.setAttribute('aria-expanded',String(note.open)));
+  });
 }
 
 function viewResearch10(v){

diff --git a/tools/verify.js b/tools/verify.js
@@ -64,12 +64,42 @@ const routes=['home','emerging','emerging/work','emerging/skills','emerging/cult
   }
   const p=await browser.newPage({viewport:{width:1440,height:950}});
   await p.goto(url+'#home');
+  assert.match(await p.locator('.snapshot-note12').innerText(),/not representative/);
+  assert.match(await p.locator('.snapshot-note12').innerText(),/do not establish that AI caused/);
+  assert.match(await p.locator('#work-left10-title').innerText(),/Models are completing longer tasks/);
+  assert.match(await p.locator('#work-right10-title').innerText(),/Employment is falling among young workers/);
+  assert.match(await p.locator('.human10 .measure10').innerText(),/US workers aged 22-25/);
+  assert.ok(!(await p.locator('.home10').innerText()).includes('209 times'),'Technical ratio stays in collapsed note');
+  assert.ok(!/, not\b/.test(await p.locator('.home10').innerText()),'Avoid compressed x, not y phrasing on the home page');
+  for(const key of ['capability','work']){
+    const button=p.locator(`[data-home-note="${key}"]`),note=p.locator(`#home-note-${key}`);
+    assert.equal(await note.evaluate(d=>d.open),false);
+    assert.ok(await button.getAttribute('title'),'Definition available on hover');
+    await button.focus();await p.keyboard.press('Enter');
+    await p.waitForTimeout(80);
+    assert.equal(await note.evaluate(d=>d.open),true);
+    assert.equal(await button.getAttribute('aria-expanded'),'true');
+    assert.equal(await p.evaluate(()=>document.activeElement.parentElement.id),'home-note-'+key);
+    await note.locator('summary').click();await p.waitForTimeout(80);
+    assert.equal(await button.getAttribute('aria-expanded'),'false');
+  }
+  for(const width of [1440,760,390,340]){
+    await p.setViewportSize({width,height:950});
+    await p.evaluate(()=>document.querySelectorAll('.home-notes12 details').forEach(d=>d.open=true));
+    assert.ok(await p.evaluate(()=>document.documentElement.scrollWidth<=innerWidth+1),'Expanded home notes fit '+width);
+    const sizes=await p.evaluate(()=>({caveat:parseFloat(getComputedStyle(document.querySelector('.snapshot-note12')).fontSize),body:parseFloat(getComputedStyle(document.querySelector('.figure-take10')).fontSize)}));
+    assert.ok(sizes.caveat<sizes.body,'Caveats are visually secondary');
+  }
+  await p.setViewportSize({width:1440,height:950});await p.goto(url+'#home');
+  await p.evaluate(()=>document.querySelectorAll('.home-notes12 details').forEach(d=>d.open=false));
   assert.equal(await p.locator('#work-left10 path[fill="none"]').count(),1,'Capability has a record-high line');
   assert.equal(await p.locator('#work-left10 circle').count(),23,'Every evaluated model remains visible');
   const frontier=await p.evaluate(()=>capabilityRecords7().map(r=>[r.date,r.estimate]));
   assert.ok(frontier.every((r,i)=>!i||r[0]>frontier[i-1][0]&&r[1]>frontier[i-1][1]),'Record-high line rises through observed records');
   await p.getByRole('link',{name:'Explore emerging evidence',exact:false}).click();
   assert.ok(p.url().endsWith('#emerging'));
+  assert.equal(await p.locator('.home-notes12').count(),0,'Copy pilot is scoped to Home');
+  assert.match(await p.locator('#work-left10-title').innerText(),/Longer tasks, at the same success rate/);
   assert.equal(await p.locator('#culture-left10 path[fill="none"]').count(),1,'Upload share has a line');
   assert.equal(await p.locator('#culture-left10 circle').count(),5,'Exactly five source reports');
   assert.equal(await p.locator('#culture-right10 svg, #skills-right10 svg').count(),0,'Snapshots are numbers, not pseudo-trends');

diff --git a/src/comparison.css b/src/comparison.css
@@ -28,6 +28,10 @@ h1,h2,h3,p,a,summary,dd{overflow-wrap:break-word}
 .intro10 .intro-links10{font:14px/1.5 var(--f-display);display:flex;flex-wrap:wrap;gap:10px 24px;margin-top:20px}
 .intro-links10 a,.pair-links10 a,.gap-links10 a{font-weight:600;text-decoration:none}.intro-links10 a:hover,.pair-links10 a:hover,.gap-links10 a:hover{text-decoration:underline}
 .home-intro10{max-width:none;padding-bottom:28px}.home-intro10 h1{font-size:44px;max-width:28ch}.home-intro10 p{max-width:68ch}
+.snapshot-note12{font-size:12px;line-height:1.6;color:var(--ink-2);max-width:110ch;margin-bottom:20px}.snapshot-note12 b{font-weight:650}
+.home10 .compare-figure10 h3 sup{vertical-align:super;line-height:0;white-space:nowrap}.note-ref12{font:600 12px/1 var(--f-display);color:var(--accent);background:none;border:0;border-bottom:1px dotted currentColor;border-radius:0;min-width:24px;height:24px;padding:3px;cursor:pointer;vertical-align:middle}.note-ref12:hover{background:var(--accent-soft)}.note-ref12:focus-visible{outline:2px solid var(--accent);outline-offset:2px}
+.home-notes12{display:grid;grid-template-columns:1fr 1fr;gap:14px 48px;margin-top:17px;align-items:start}.home-notes12 details{font-size:12px;line-height:1.6;color:var(--ink-2);border-top:1px solid var(--rule);scroll-margin-top:100px}.home-notes12 summary{cursor:pointer;padding:12px 0;font-weight:600}.home-notes12 summary:focus-visible{outline:2px solid var(--accent);outline-offset:2px}.home-notes12 p{margin:0 0 12px}.home10 .figure-take10{min-height:0}.home10 .figure-take10 strong{font-size:16px}
+@media(max-width:700px){.home-notes12{grid-template-columns:1fr;gap:0}.home-notes12 details{scroll-margin-top:145px}.snapshot-note12{margin-bottom:16px}}
 .reading-note10{font:13px/1.5 var(--f-display);color:var(--ink-2);margin-bottom:16px;max-width:85ch}
 .jump10{display:flex;gap:8px 24px;flex-wrap:wrap;padding-block:14px;border-block:1px solid var(--rule);margin-bottom:38px;font-size:14px}.jump10 a{text-decoration:none}.jump10 a:hover{text-decoration:underline}
 .comparison10{padding-block:0 42px;scroll-margin-top:100px}.comparison10+.comparison10{padding-top:30px;border-top:1px solid var(--rule)}

diff --git a/src/capability.js b/src/capability.js
@@ -243,12 +243,12 @@ function capabilityRecords7(rows=CAPABILITY7.metr.rows){
     return records;
   },[]);
 }
-function drawCapabilityTrend7(el,h=330){
+function drawCapabilityTrend7(el,h=330,labels={}){
   const rows=CAPABILITY7.metr.rows,records=capabilityRecords7(rows),ids=new Set(records.map(r=>r.id)),last=records.at(-1);
   Charts.line(el,{h,legend:false,table:false,axisPlacement:'edges',
     aria:'METR TH1.1 technical-task length at 80 percent success, March 2023 to April 2026. A line joins record-high point estimates among evaluated models; other tested models remain visible. From 53 seconds to 3.1 hours of human-expert work. Not a fitted trend or a forecast.',
     x:{min:2023,max:2026.65,ticks:[2023,2024,2025,2026],fmt:String,tip:calendarDate7,label:'Model release year'},
-    y:{min:0,max:240,ticks:[0,60,120,180,240],fmt:n=>n===0?'0':`${n/60}h`,tip:n=>n<1?Math.round(n*60)+' sec':fmtMin(n),label:'Task length in human-expert time / 80% success'},
+    y:{min:0,max:240,ticks:[0,60,120,180,240],fmt:n=>n===0?'0':`${n/60}h`,tip:n=>n<1?Math.round(n*60)+' sec':fmtMin(n),label:labels.yLabel||'Task length in human-expert time / 80% success'},
     series:[{name:'Record-high estimates',color:C.s1,w:2.8,markers:'none',end:false,tip:false,rec:false,pts:records.map(r=>[decimalYear7(r.date),r.estimate])},
       ...rows.map(r=>({name:r.name,color:ids.has(r.id)?C.s1:C.s2,dots:true,r:ids.has(r.id)?4:3,markers:'all',end:false,pts:[[decimalYear7(r.date),r.estimate,`95% interval: ${r.low.toFixed(2)} to ${r.high.toFixed(2)} minutes`]]}))],
     ann:[{x:decimalYear7(records[0].date),y:records[0].estimate,text:'53 sec',dx:8,dy:-18,strong:true},{x:decimalYear7(last.date),y:last.estimate,text:'3.1 hours',anchor:'end',dx:-8,dy:-18,strong:true}]});

diff --git a/research/reviews/21_home_plain_language.md b/research/reviews/21_home_plain_language.md
@@ -1,0 +1,21 @@
+# Home-page copy pilot
+
+15 October 2026
+
+The user requested a home-page-only trial before a wider copy review. The aim is accessible, professional writing: state what changed in complete sentences, define the quantity behind a number, and keep technical detail available without putting every qualification in the main text.
+
+## Changes
+
+- Replaced abstract chart headings with literal descriptions of task capability and employment.
+- Explained the capability comparison in human-work time. The 209-fold ratio now appears only in the measurement note, with its two models, dates and fixed success rate.
+- Kept the employment population visible: US workers aged 22-25 in highly AI-exposed occupations. Stated the 12.8% change with its start and end dates.
+- Added a small notice above the pair explaining the limited coverage and absence of a causal conclusion.
+- Added numbered references with short hover definitions and keyboard/touch-accessible notes below. Each note retains source and data links.
+- Rephrased the comparison's interpretation as an open research question. Removed the compressed "x, not y" construction from the homepage.
+- Left Emerging evidence and all research-gap pages unchanged pending feedback. All chart data are unchanged.
+
+## Checks
+
+METR's time-horizon methods and Stanford's Canaries dashboard were consulted for terminology and population definitions. This was a wording check, not a new replication of the data extraction.
+
+The 330-route regression suite checks desktop/mobile layouts, light/dark themes, chart preservation and navigation. Added tests cover note activation by keyboard, focus, expanded state, responsive notes, source scope, and homepage-only copy changes. The selected-data arithmetic check also passes. Desktop, mobile and dark-mode screenshots were inspected.
